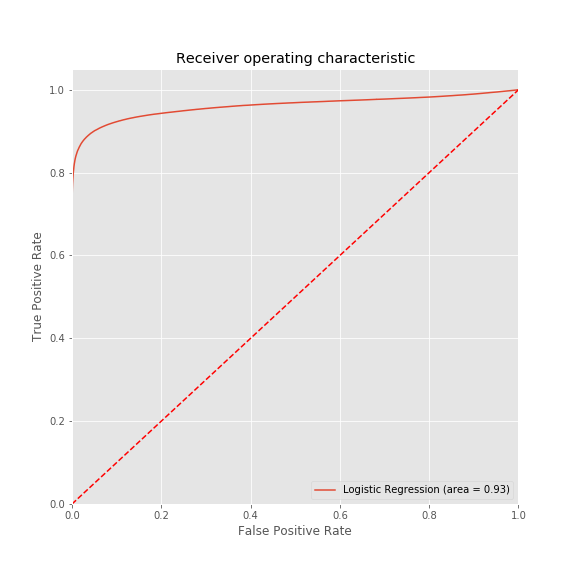
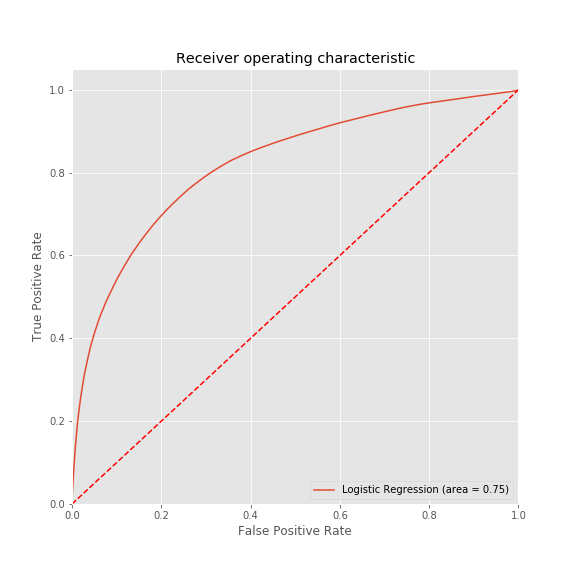
rm total payement from log reg.

diff --git a/assignment.py b/assignment.py
@@ -301,6 +301,7 @@ def clean_prior_to_regression(df):
             'loan_status',  # this is dummy in 'default' col
             'max_date',  # removing, for filtering in part 2
             'issue_d',  # original date field, removed sim. to 'issue_date'
+            'total_pymnt',
         ],
         axis=1,
     )
